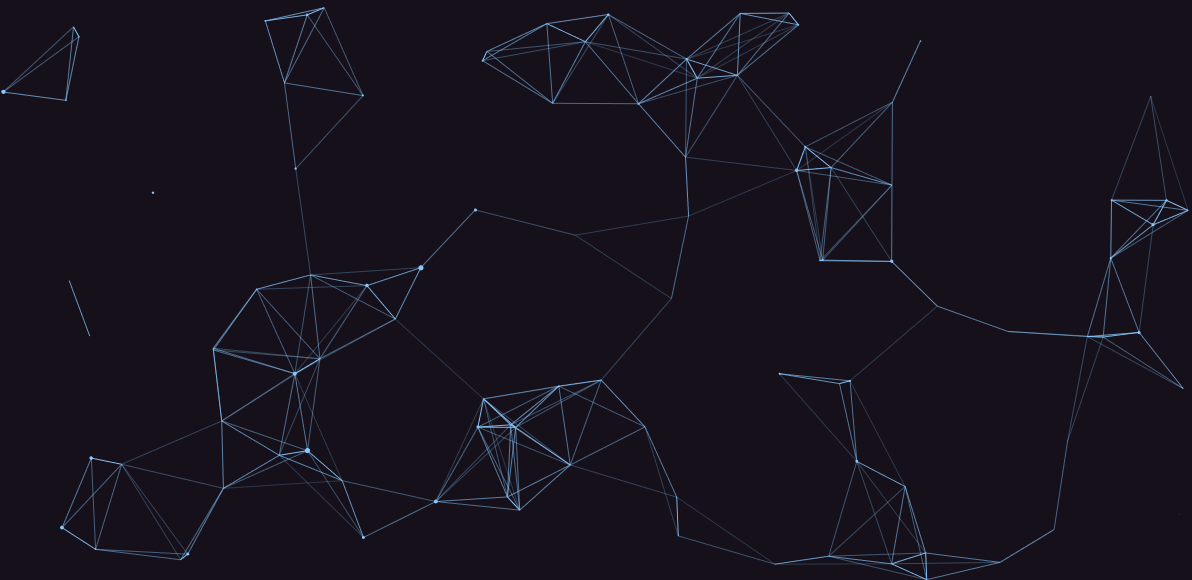
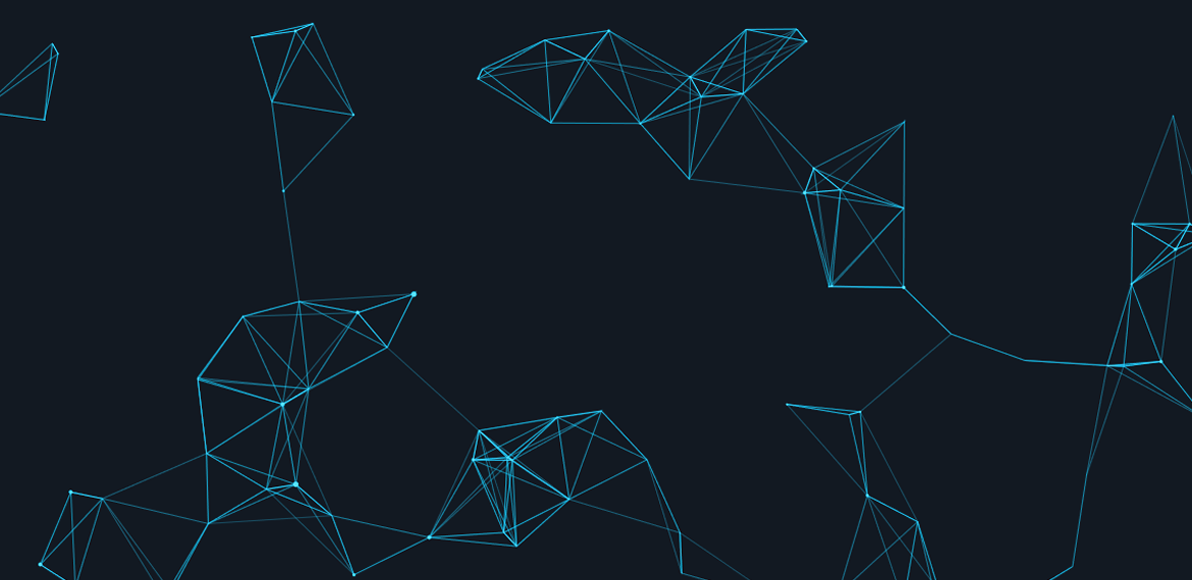
Background and Font sizes

diff --git a/src/css/styles.css b/src/css/styles.css
@@ -4,7 +4,7 @@
     @font-face {
         font-family: title-font;
         src: url("../fonts/rubik/Rubik-SemiBold.ttf");
-        font-weight: 700;
+        font-weight: 600;
     }
 
     /* Texts */
@@ -29,11 +29,11 @@
 
 
 body {
-    --main-blue: #3c98e8; /* Main color */
+    --main-blue: #3c9bd2; /* Main color */
     --light-blue: #61b5ff;
     --hover-blue: rgb(53, 122, 187); 
-    --main-green: #86d383; /* Secondary color */
-    --main-yellow: #fac368; /* Secondary color */
+    --main-green: #7bc478; /* Secondary color */
+    --hover-green: #528f50; 
     --black: #212529;
     --text-black: #3e444b;
     --white: #f0f0f0;
@@ -45,7 +45,7 @@ body {
     color: var(--text-black);
 }
 
-main {
+.page-margin {
     margin: 0 8em;
 }
 
@@ -57,8 +57,13 @@ a:hover {
     color: var(--white);
 }
 
-h1 {
-    font-family: title-font;
+h2, h3, h4 {
+  font-family: 'title-font';
+}
+
+h2 {
+  font-weight: 600;
+  font-size: 2rem;
 }
 
 /* Buttons */
@@ -94,8 +99,8 @@ h1 {
 }
 
 .btn-outline-primary {
-    color: var(--300-blue);
-    border-color: var(--300-blue);
+    color: var(--main-blue);
+    border-color: var(--main-blue);
 }
 
 .btn-outline-primary:hover {
@@ -107,19 +112,88 @@ h1 {
     box-shadow: none;
 }
 
+
+.btn-secondary {
+  color: var(--white);
+  border-color: var(--main-green);
+  background-color: var(--main-green);
+}
+
+.btn-secondary:hover {
+  border-color: var(--hover-green);
+  background-color: var(--hover-green);
+}
+
+.btn-check:focus+.btn-secondary, 
+.btn-secondary:focus, .btn-check:active+.btn-secondary, 
+.btn-check:checked+.btn-secondary, .btn-secondary.active, 
+.btn-secondary:active, .show>.btn-secondary.dropdown-toggle,
+.btn-check:active+.btn-secondary:focus, 
+.btn-check:checked+.btn-secondary:focus, 
+.btn-secondary.active:focus, .btn-secondary:active:focus, 
+.show>.btn-secondary.dropdown-toggle:focus {
+  color: var(--white);
+  background-color: var(--hover-green);
+  border-color: var(--hover-green);
+  box-shadow: none;
+}
+
+.btn-outline-secondary {
+  color: var(--main-green);
+  border-color: var(--main-green);
+}
+
+.btn-outline-secondary:hover {
+  background-color: var(--main-green);
+  border-color: var(--main-green);;
+}
+
+.btn-check:focus+.btn-outline-secondary, .btn-outline-secondary:focus{
+  box-shadow: none;
+}
+
 /* Homepage */
 
 .homepage-container-hero {
-  height: 500px;
+  padding: 100px 0;
   background-image: url("../public/images/cool-background.png");
+  background-position: right;
+  background-repeat: no-repeat;
+  background-size: cover;
 }
 
-.banner-text {
-    max-width: 450px;
+.banner-text p {
+  font-weight: 400!important;
+  color: #dedede;
+  font-size: 1rem;
+  margin-bottom: 1.5rem!important;
+  max-width: 356px;
+  margin: auto;
+}
+
+
+h1.display-3 {
+  font-family: title-font;
+  font-size: 2.6rem;
+  color: #dedede;
+  margin-bottom: 1rem;
+}
+
+a.btn {
+    width: 135px;
+    padding: 0.3rem;
+    display: inline-block;
+    font-size: 0.85rem;
+}
+
+.homepage-feature {
+  justify-content: space-around;
 }
 
 .homepage-feature-text {
   margin-top: 3rem;
+  max-width: 550px;
+  font-weight: 300;
 }
 
 .homepage-feature-image {
@@ -152,14 +226,4 @@ h1 {
     text-align: center;
   }
 
-  main {
-    margin: 0 2em;
-}
-}
-
-@media (max-width: 450px) {
-    main {
-        margin: 0;
-        padding-top: 0;
-    }
 }

diff --git a/src/html/pages/homepage.php b/src/html/pages/homepage.php
@@ -3,83 +3,83 @@
 include_once(dirname(__DIR__) . "\common\header.php");
 ?> 
 
-<link href="../../css/styles.css" rel="stylesheet">
-<div class="position-relative p-5 text-center homepage-container-hero text-light d-flex justify-content-center flex-column">
-    <div class="banner-text col-md-5 mx-auto">
-        <h1 class="display-3"> BrainShare </h1>
-        <p class="lead fw-normal mb-3"> The FEUP website for questions and answers. We connect students to solutions to improve your academic grow. </p>
-        <div class="d-flex justify-content-center">
-            <a href="#" class="btn btn-primary mx-2">Search</a>
-            <a href="#" class="btn btn-primary mx-2">Add Question</a>
+<div class="position-relative text-center homepage-container-hero text-light">
+        <div class="banner-text col-md-5 mx-auto">
+            <h1 class="display-3"> BrainShare </h1>
+            <p class="lead fw-normal mb-3"> The FEUP website for questions and answers. We connect students to solutions to improve your academic grow. </p>
+            <div class="d-flex justify-content-center">
+                <a href="#" class="btn btn-primary mx-3">Search</a>
+                <a href="#" class="btn btn-primary mx-3">Add Question</a>
+            </div>
         </div>
+
     </div>
 
-</div>
+<div class="page-margin">
 
-<!-- title->top-margin: 5; bottom-margin: 4-->
-<!-- text-> bottom-margin: 5 -->
-
-<div class="mx-3">
-    <!-- Featured text  -->
-    <div class="row py-5 homepage-feature">
-        <div class="offset-md-1 col-md-6 homepage-feature-text">
-            <h1 class="mb-4 ">What is BrainShare? <span class="text-muted ">The way to learn.</span> </h1>
-            <p class="lead mb-5">Brainshare is a Q&A forum that allows FEUP students to answer their own doubts about about their courses!
-                All our features are completely free, since our goal is to be the center of information in our college.</p>
-            <a href="#" class="btn btn-outline-primary mb-4">About Us</a>
-        </div>
-        <div class="col-md-5 homepage-feature-image">
-            <svg class="img-fluid mx-auto" width="500" height="500" xmlns="http://www.w3.org/2000/svg" role="img" aria-label="Placeholder: 500x500" preserveAspectRatio="xMidYMid slice" focusable="false">
-                <title>Placeholder</title>
-                <rect width="100%" height="100%" fill="#eee"></rect><text x="50%" y="50%" fill="#aaa" dy=".3em">500x500</text>
-            </svg>
-        </div>
-
-
-    </div>
-    <hr>
-    <!-- Courses -->
-    <div class="pt-3 homepage-course">
-        <h1 class="text-center my-5 display-5 fw-normal">Courses</h1>
-        <div class="row">
-            <div class="col-lg-4 homepage-course-container my-5">
-                <svg class="bd-placeholder-img rounded-circle" width="140" height="140" xmlns="http://www.w3.org/2000/svg" role="img" aria-label="Placeholder: 140x140" preserveAspectRatio="xMidYMid slice" focusable="false">
-                    <title>MIEIC</title>
-                    <rect width="100%" height="100%" fill="#777"></rect><text x="50%" y="50%" fill="#777" dy=".3em">140x140</text>
-                </svg>
-                <h2 class="mt-4">MIEIC</h2>
-                <p>Matesters in Informatics and Computation Engineering</p>
-                <a href="#" class="btn btn-outline-primary">Check questions</a>
+    <div class="mx-3">
+        <!-- Featured text  -->
+        <div class="row py-5 homepage-feature">
+            <div class="offset-md-1 col-md-6 homepage-feature-text">
+                <h2 class="mb-4 ">What is BrainShare?  <span class="text-muted ">The way to learn.</span> </h2>
+                <p class="mb-5">BrainShare is a Q&A forum that allows FEUP students to answer their own doubts about about their courses!
+                    All our features are completely free, since our goal is to be the center of information in our college.</p>
+                <a href="#" class="btn btn-secondary mb-4">About Us</a>
             </div>
-            <div class="col-lg-4 homepage-course-container my-5">
-                <svg class="bd-placeholder-img rounded-circle" width="140" height="140" xmlns="http://www.w3.org/2000/svg" role="img" aria-label="Placeholder: 140x140" preserveAspectRatio="xMidYMid slice" focusable="false">
-                    <title>MIEEC</title>
-                    <rect width="100%" height="100%" fill="#777"></rect><text x="50%" y="50%" fill="#777" dy=".3em">140x140</text>
-                </svg>
-                <h2 class="mt-4">MIEC</h2>
-                <p>Masters in Civil Engineering</p>
-                <a href="#" class="btn btn-outline-primary">Check questions</a>
-            </div>
-            <div class="col-lg-4 homepage-course-container my-5">
-                <svg class="bd-placeholder-img rounded-circle" width="140" height="140" xmlns="http://www.w3.org/2000/svg" role="img" aria-label="Placeholder: 140x140" preserveAspectRatio="xMidYMid slice" focusable="false">
+            <div class="col-md-5 homepage-feature-image">
+                <svg class="img-fluid mx-auto" width="500" height="300" xmlns="http://www.w3.org/2000/svg" role="img" aria-label="Placeholder: 500x500" preserveAspectRatio="xMidYMid slice" focusable="false">
                     <title>Placeholder</title>
-                    <rect width="100%" height="100%" fill="#777"></rect><text x="50%" y="50%" fill="#777" dy=".3em">140x140</text>
+                    <rect width="100%" height="100%" fill="#eee"></rect><text x="50%" y="50%" fill="#aaa" dy=".3em">500x500</text>
                 </svg>
-                <h2 class="mt-4">MIEEC</h2>
-                <p>Master in Electrical and Computers Engineering</p>
-                <a href="#" class="btn btn-outline-primary">Check questions</a>
             </div>
+
+
+        </div>
+        <hr>
+        <!-- Courses -->
+        <div class="pt-3 homepage-course">
+            <h2 class="text-center mt-5">Courses</h2>
+            <div class="row">
+                <div class="col-lg-4 homepage-course-container my-5">
+                    <svg class="bd-placeholder-img rounded-circle" width="140" height="140" xmlns="http://www.w3.org/2000/svg" role="img" aria-label="Placeholder: 140x140" preserveAspectRatio="xMidYMid slice" focusable="false">
+                        <title>MIEIC</title>
+                        <rect width="100%" height="100%" fill="#777"></rect><text x="50%" y="50%" fill="#777" dy=".3em">140x140</text>
+                    </svg>
+                    <h2 class="mt-4">MIEIC</h2>
+                    <p>Matesters in Informatics and Computation Engineering</p>
+                    <a href="#" class="btn btn-outline-primary">Check questions</a>
+                </div>
+                <div class="col-lg-4 homepage-course-container my-5">
+                    <svg class="bd-placeholder-img rounded-circle" width="140" height="140" xmlns="http://www.w3.org/2000/svg" role="img" aria-label="Placeholder: 140x140" preserveAspectRatio="xMidYMid slice" focusable="false">
+                        <title>MIEEC</title>
+                        <rect width="100%" height="100%" fill="#777"></rect><text x="50%" y="50%" fill="#777" dy=".3em">140x140</text>
+                    </svg>
+                    <h2 class="mt-4">MIEC</h2>
+                    <p>Masters in Civil Engineering</p>
+                    <a href="#" class="btn btn-outline-primary">Check questions</a>
+                </div>
+                <div class="col-lg-4 homepage-course-container my-5">
+                    <svg class="bd-placeholder-img rounded-circle" width="140" height="140" xmlns="http://www.w3.org/2000/svg" role="img" aria-label="Placeholder: 140x140" preserveAspectRatio="xMidYMid slice" focusable="false">
+                        <title>Placeholder</title>
+                        <rect width="100%" height="100%" fill="#777"></rect><text x="50%" y="50%" fill="#777" dy=".3em">140x140</text>
+                    </svg>
+                    <h2 class="mt-4">MIEEC</h2>
+                    <p>Master in Electrical and Computers Engineering</p>
+                    <a href="#" class="btn btn-outline-primary">Check questions</a>
+                </div>
+            </div>
+        </div>
+
+        <hr>
+        <!-- Last search button in page -->
+        <div class="homepage-lastsearch my-5 d-flex mx-auto flex-column text-center">
+            <h1 class="display-5 mb-4 fw-normal">Looking for questions to answer?</h1>
+            <p class="lead mb-5">Don't forget that other students are also needing your help!
+                Learning-by-teaching is one of our lemmas. By explaining and sharing your knowledge you're able to increase
+                your comprehension in a topic. Show what you have learned and don't forget to have fun!
+            </p>
+            <p><a href="#" class="btn btn-outline-primary mb-5">Search</a></p>
         </div>
     </div>
 
-    <hr>
-    <!-- Last search button in page -->
-    <div class="homepage-lastsearch my-5 d-flex mx-auto flex-column text-center">
-        <h1 class="display-5 mb-4 fw-normal">Looking for questions to answer?</h1>
-        <p class="lead mb-5">Don't forget that other students are also needing your help!
-            Learning-by-teaching is one of our lemmas. By explaining and sharing your knowledge you're able to increase
-            your comprehension in a topic. Show what you have learned and don't forget to have fun!
-        </p>
-        <p><a href="#" class="btn btn-outline-primary mb-5">Search</a></p>
-    </div>
 </div>

diff --git a/src/html/common/header.php b/src/html/common/header.php
@@ -6,7 +6,7 @@
     <meta name="viewport" content="width=device-width, initial-scale=1">
 
     <link href="https://cdn.jsdelivr.net/npm/bootstrap@5.0.0-beta2/dist/css/bootstrap.min.css" rel="stylesheet" integrity="sha384-BmbxuPwQa2lc/FVzBcNJ7UAyJxM6wuqIj61tLrc4wSX0szH/Ev+nYRRuWlolflfl" crossorigin="anonymous">
-    <link href="css/styles.css" rel="stylesheet">
+    <link href="../../css/styles.css" rel="stylesheet">
 
     <script src="https://cdn.jsdelivr.net/npm/bootstrap@5.0.0-beta2/dist/js/bootstrap.bundle.min.js" integrity="sha384-b5kHyXgcpbZJO/tY9Ul7kGkf1S0CWuKcCD38l8YkeH8z8QjE0GmW1gYU5S9FOnJ0" crossorigin="anonymous" defer></script>
     <script src="https://kit.fontawesome.com/cf05cece41.js" crossorigin="anonymous"></script>
